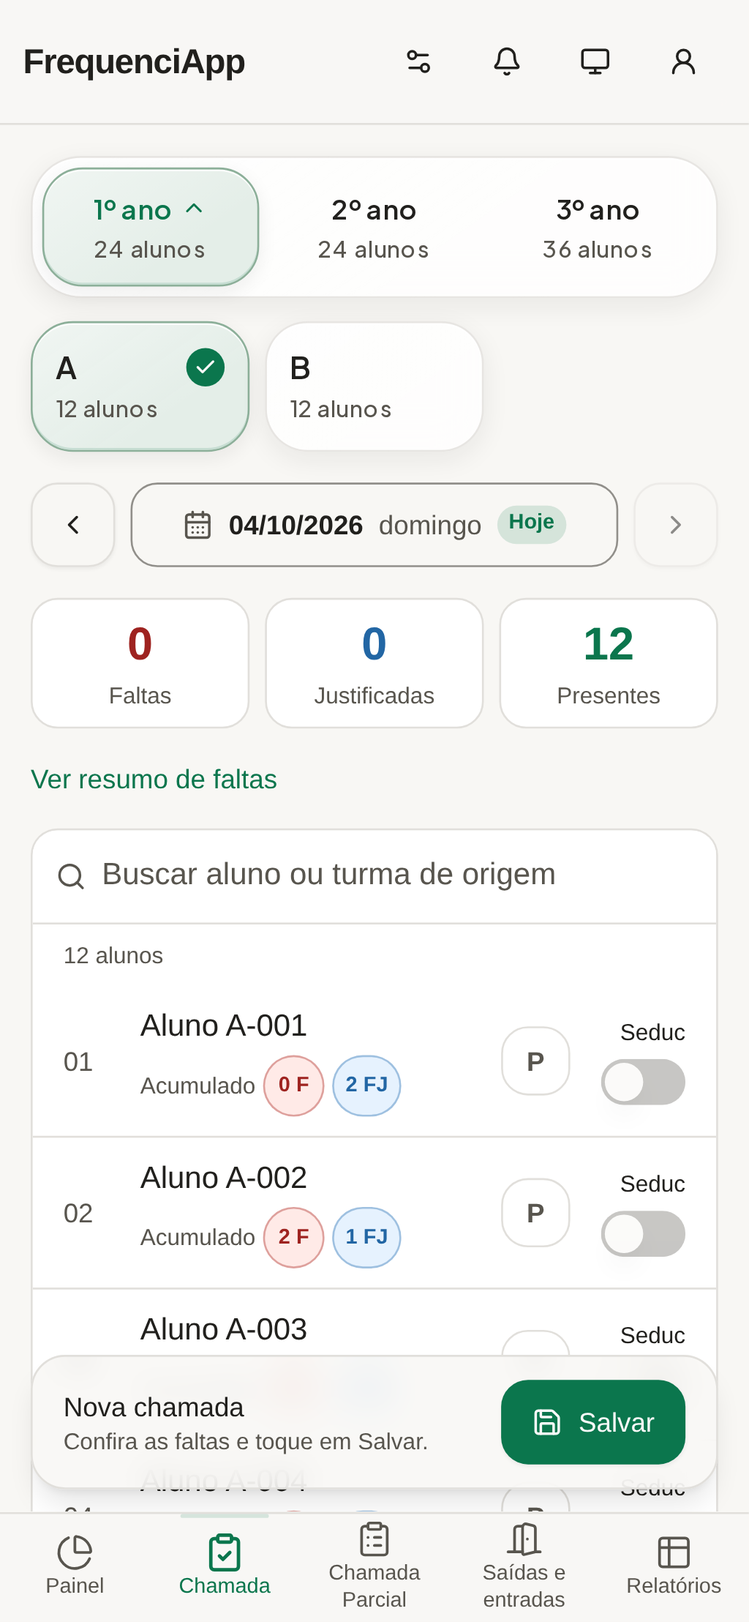
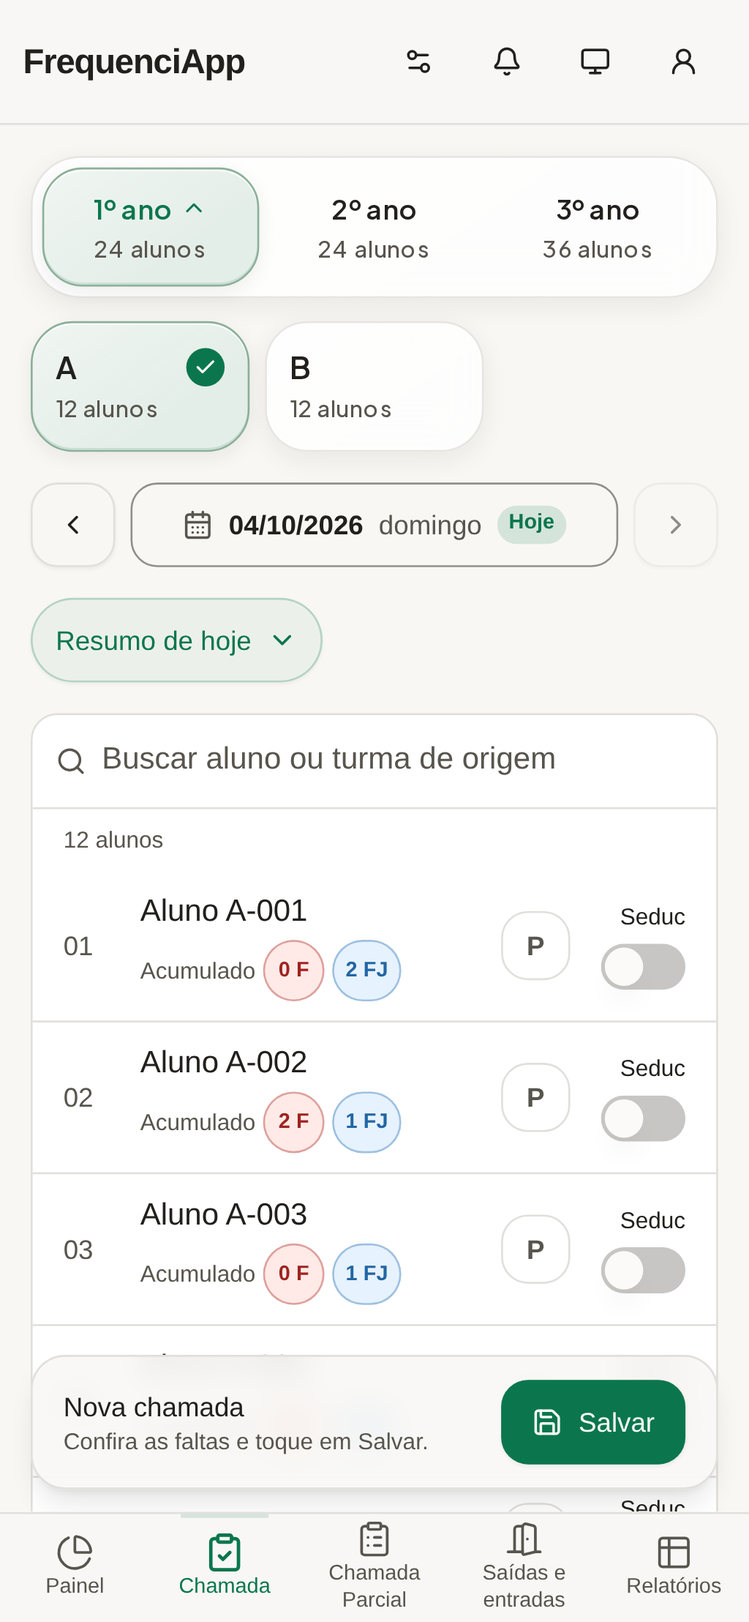
feat(frequencia): recolha os indicadores no resumo da Chamada
Move as contagens de faltas, justificadas e presentes para o painel
recolhível e abre o conteúdo pelo botão arredondado Resumo de hoje.
Identifica consultas históricas como Resumo do dia e preserva os filtros
com a ação Ver todos disponível junto da lista de alunos.

Atualiza os fluxos de navegador, a documentação e as capturas oficiais.

Assisted-by: Codex:GPT-6

diff --git a/src/components/frequencia/vista-frequencia.tsx b/src/components/frequencia/vista-frequencia.tsx
@@ -3,9 +3,10 @@
 // Chamada diária: todos presentes por padrão; toque no aluno para marcar
 // falta e de novo para voltar. A falta pode receber uma justificativa do
 // catálogo (FJ). Rascunho local e proteção de conflito.
-import { useCallback, useEffect, useMemo, useRef, useState } from "react";
+import { useCallback, useEffect, useId, useMemo, useRef, useState } from "react";
 import { motion, useReducedMotion } from "motion/react";
 import {
+  ChevronDown,
   ChevronLeft,
   ChevronRight,
   CloudCheck,
@@ -148,6 +149,7 @@ export default function VistaFrequencia({
   const [observacoes, setObservacoes] = useState<Map<string, string>>(new Map());
   const [aulasAbertas, setAulasAbertas] = useState<string | null>(null);
   const [resumoAberto, setResumoAberto] = useState(false);
+  const idResumo = useId();
   const [revisaoSalva, setRevisaoSalva] = useState(0);
   const [confirmacoesSeduc, setConfirmacoesSeduc] = useState<ConfirmacaoSeducAluno[]>([]);
   const { chaveAtiva: confirmandoSeduc, executar: executarSeduc } = useAcoesPorChave();
@@ -601,6 +603,7 @@ export default function VistaFrequencia({
 
   const rotuloDia = dia ? dia.split("-").reverse().join("/") : "";
   const diaDaSemana = dia ? rotuloDiaSemana(dia) : "";
+  const tituloResumo = dia === diaCorrente ? "Resumo de hoje" : "Resumo do dia";
   const horaSalva = atualizadoEm ? horaNoFuso(atualizadoEm, fuso) : "";
 
   const tituloEstado = carregando
@@ -764,43 +767,6 @@ export default function VistaFrequencia({
             </p>
           )}
 
-          <div className="grid grid-cols-3 gap-2" aria-label="Resumo da chamada">
-            <button
-              type="button"
-              aria-pressed={filtro === "faltas"}
-              onClick={() => setFiltro((atual) => (atual === "faltas" ? "todos" : "faltas"))}
-              className="bg-card aria-[pressed=true]:border-falta aria-[pressed=true]:bg-falta-fraca pressionavel flex min-h-16 flex-col items-center justify-center gap-0.5 rounded-lg border px-2 py-2 transition-colors"
-            >
-              <span className="numerais-tabulares text-falta-texto text-2xl font-semibold">
-                {carregando ? "" : contagemFaltas}
-              </span>
-              <span className="text-muted-foreground text-xs font-medium">Faltas</span>
-            </button>
-            <button
-              type="button"
-              aria-pressed={filtro === "justificadas"}
-              onClick={() =>
-                setFiltro((atual) => (atual === "justificadas" ? "todos" : "justificadas"))
-              }
-              className="bg-card aria-[pressed=true]:border-justificada aria-[pressed=true]:bg-justificada-fraca pressionavel flex min-h-16 flex-col items-center justify-center gap-0.5 rounded-lg border px-2 py-2 transition-colors"
-            >
-              <span className="numerais-tabulares text-justificada-texto text-2xl font-semibold">
-                {carregando ? "" : contagemJustificadas}
-              </span>
-              <span className="text-muted-foreground text-xs font-medium">Justificadas</span>
-            </button>
-            <button
-              type="button"
-              aria-pressed={filtro === "presentes"}
-              onClick={() => setFiltro((atual) => (atual === "presentes" ? "todos" : "presentes"))}
-              className="bg-card aria-[pressed=true]:border-primary aria-[pressed=true]:bg-accent pressionavel flex min-h-16 flex-col items-center justify-center gap-0.5 rounded-lg border px-2 py-2 transition-colors"
-            >
-              <span className="numerais-tabulares text-primary text-2xl font-semibold">
-                {carregando ? "" : contagemPresencas}
-              </span>
-              <span className="text-muted-foreground text-xs font-medium">Presentes</span>
-            </button>
-          </div>
           {configuracoes.frequenciaPorAula && aulasDoDia.length > 1 && (
             <div className="text-muted-foreground flex flex-wrap items-center gap-1.5 text-xs">
               <span>Aulas do dia:</span>
@@ -822,14 +788,20 @@ export default function VistaFrequencia({
             </p>
           )}
 
-          <button
+          <Button
             type="button"
+            variant="outline"
             aria-expanded={resumoAberto}
+            aria-controls={idResumo}
             onClick={() => setResumoAberto((atual) => !atual)}
-            className="text-primary pressionavel self-start text-sm font-medium hover:underline"
+            className="text-primary border-primary/25 bg-primary/5 hover:bg-primary/10 hover:text-primary dark:border-primary/25 dark:bg-primary/5 dark:hover:bg-primary/10 self-start rounded-full px-4"
           >
-            {resumoAberto ? "Ocultar resumo de faltas" : "Ver resumo de faltas"}
-          </button>
+            {tituloResumo}
+            <ChevronDown
+              aria-hidden="true"
+              className={`size-4 transition-transform motion-reduce:transition-none ${resumoAberto ? "rotate-180" : ""}`}
+            />
+          </Button>
 
           {(erro || conflito) &&
             (conflito ? (
@@ -857,75 +829,130 @@ export default function VistaFrequencia({
         </div>
 
         <div className="flex min-w-0 flex-col gap-4 xl:order-1">
-          {resumoAberto && (
-            <div className="bg-card overflow-hidden rounded-lg border">
-              <div className="bg-secondary/50 border-b px-4 py-2.5">
-                <h2 className="font-medium">Resumo de faltas</h2>
-              </div>
-              {(() => {
-                const ausentes = ativosDaTurma.filter((aluno) => ausencias.has(aluno.id));
-                if (ausentes.length === 0) {
+          <section
+            id={idResumo}
+            aria-label={tituloResumo}
+            hidden={!resumoAberto}
+            className="bg-card overflow-hidden rounded-lg border"
+          >
+            {resumoAberto && (
+              <>
+                <div className="bg-secondary/50 flex flex-wrap items-center justify-between gap-2 border-b px-4 py-2.5">
+                  <h2 className="font-medium">{tituloResumo}</h2>
+                  <span className="text-muted-foreground numerais-tabulares text-xs">
+                    {rotuloDia}
+                  </span>
+                </div>
+                <div className="border-b p-3">
+                  <div className="grid grid-cols-3 gap-2" aria-label="Resumo da chamada">
+                    <button
+                      type="button"
+                      aria-pressed={filtro === "faltas"}
+                      onClick={() =>
+                        setFiltro((atual) => (atual === "faltas" ? "todos" : "faltas"))
+                      }
+                      className="bg-card aria-[pressed=true]:border-falta aria-[pressed=true]:bg-falta-fraca pressionavel flex min-h-16 flex-col items-center justify-center gap-0.5 rounded-lg border px-2 py-2 transition-colors"
+                    >
+                      <span className="numerais-tabulares text-falta-texto text-2xl font-semibold">
+                        {carregando ? "" : contagemFaltas}
+                      </span>
+                      <span className="text-muted-foreground text-xs font-medium">Faltas</span>
+                    </button>
+                    <button
+                      type="button"
+                      aria-pressed={filtro === "justificadas"}
+                      onClick={() =>
+                        setFiltro((atual) => (atual === "justificadas" ? "todos" : "justificadas"))
+                      }
+                      className="bg-card aria-[pressed=true]:border-justificada aria-[pressed=true]:bg-justificada-fraca pressionavel flex min-h-16 flex-col items-center justify-center gap-0.5 rounded-lg border px-2 py-2 transition-colors"
+                    >
+                      <span className="numerais-tabulares text-justificada-texto text-2xl font-semibold">
+                        {carregando ? "" : contagemJustificadas}
+                      </span>
+                      <span className="text-muted-foreground text-xs font-medium">
+                        Justificadas
+                      </span>
+                    </button>
+                    <button
+                      type="button"
+                      aria-pressed={filtro === "presentes"}
+                      onClick={() =>
+                        setFiltro((atual) => (atual === "presentes" ? "todos" : "presentes"))
+                      }
+                      className="bg-card aria-[pressed=true]:border-primary aria-[pressed=true]:bg-accent pressionavel flex min-h-16 flex-col items-center justify-center gap-0.5 rounded-lg border px-2 py-2 transition-colors"
+                    >
+                      <span className="numerais-tabulares text-primary text-2xl font-semibold">
+                        {carregando ? "" : contagemPresencas}
+                      </span>
+                      <span className="text-muted-foreground text-xs font-medium">Presentes</span>
+                    </button>
+                  </div>
+                </div>
+                {(() => {
+                  const ausentes = ativosDaTurma.filter((aluno) => ausencias.has(aluno.id));
+                  if (ausentes.length === 0) {
+                    return (
+                      <p className="text-muted-foreground px-4 py-3 text-sm">
+                        Nenhuma falta nesta chamada.
+                      </p>
+                    );
+                  }
                   return (
-                    <p className="text-muted-foreground px-4 py-3 text-sm">
-                      Nenhuma falta nesta chamada.
-                    </p>
-                  );
-                }
-                return (
-                  <ul className="divide-y">
-                    {ausentes.map((aluno) => {
-                      const acumulado = acumuladoDe(aluno.id);
-                      const codigo = justificativas.get(aluno.id);
-                      return (
-                        <li
-                          key={aluno.id}
-                          className="flex items-start gap-3 px-4 py-2.5 last:overflow-hidden last:rounded-b-[calc(var(--radius)-1px)]"
-                        >
-                          <span className="min-w-0 flex-1">
-                            <span className="block truncate text-sm font-medium">
-                              {nomeNaChamada(
-                                aluno.nome,
-                                mostrarOrigem,
-                                aluno.turmaOriginalId !== turmaId,
-                              )}
-                              {codigo && (
-                                <span className="text-primary ml-2 text-xs font-semibold">
-                                  {codigo}
+                    <ul className="divide-y">
+                      {ausentes.map((aluno) => {
+                        const acumulado = acumuladoDe(aluno.id);
+                        const codigo = justificativas.get(aluno.id);
+                        return (
+                          <li
+                            key={aluno.id}
+                            className="flex items-start gap-3 px-4 py-2.5 last:overflow-hidden last:rounded-b-[calc(var(--radius)-1px)]"
+                          >
+                            <span className="min-w-0 flex-1">
+                              <span className="block truncate text-sm font-medium">
+                                {nomeNaChamada(
+                                  aluno.nome,
+                                  mostrarOrigem,
+                                  aluno.turmaOriginalId !== turmaId,
+                                )}
+                                {codigo && (
+                                  <span className="text-primary ml-2 text-xs font-semibold">
+                                    {codigo}
+                                  </span>
+                                )}
+                              </span>
+                              {(mostrarOrigem || codigo) && (
+                                <span className="text-muted-foreground block truncate text-xs">
+                                  {mostrarOrigem
+                                    ? `Origem ${rotuloOrigemDe(aluno.turmaOriginalId)}`
+                                    : ""}
+                                  {codigo
+                                    ? `${mostrarOrigem ? " · " : ""}${rotuloJustificativa(codigo, catalogoJustificativas)}`
+                                    : ""}
                                 </span>
                               )}
                             </span>
-                            {(mostrarOrigem || codigo) && (
-                              <span className="text-muted-foreground block truncate text-xs">
-                                {mostrarOrigem
-                                  ? `Origem ${rotuloOrigemDe(aluno.turmaOriginalId)}`
-                                  : ""}
-                                {codigo
-                                  ? `${mostrarOrigem ? " · " : ""}${rotuloJustificativa(codigo, catalogoJustificativas)}`
-                                  : ""}
-                              </span>
-                            )}
-                          </span>
-                          <span className="flex shrink-0 flex-col items-end gap-1">
-                            {acumulado ? (
-                              <>
-                                <CirculosAcumulado
-                                  faltas={acumulado.faltas}
-                                  justificadas={acumulado.faltasJustificadas}
-                                />
-                                <span className="text-muted-foreground text-xs">acumulado</span>
-                              </>
-                            ) : (
-                              <span className="text-muted-foreground text-xs">sem acumulado</span>
-                            )}
-                          </span>
-                        </li>
-                      );
-                    })}
-                  </ul>
-                );
-              })()}
-            </div>
-          )}
+                            <span className="flex shrink-0 flex-col items-end gap-1">
+                              {acumulado ? (
+                                <>
+                                  <CirculosAcumulado
+                                    faltas={acumulado.faltas}
+                                    justificadas={acumulado.faltasJustificadas}
+                                  />
+                                  <span className="text-muted-foreground text-xs">acumulado</span>
+                                </>
+                              ) : (
+                                <span className="text-muted-foreground text-xs">sem acumulado</span>
+                              )}
+                            </span>
+                          </li>
+                        );
+                      })}
+                    </ul>
+                  );
+                })()}
+              </>
+            )}
+          </section>
 
           <div className="bg-card overflow-hidden rounded-lg border">
             <BarraBusca

diff --git a/tests/e2e/frequencia.spec.ts b/tests/e2e/frequencia.spec.ts
@@ -54,6 +54,7 @@ test.describe("chamada com saída por aula", () => {
     await page.keyboard.press("ArrowLeft");
     await page.keyboard.press("Enter");
     await expect(painelDia).toBeHidden();
+    await expect(painel.getByRole("button", { name: "Resumo do dia" })).toBeVisible();
     await expect(painel.getByRole("button", { name: "Voltar para hoje" })).toBeVisible();
     await painel.getByRole("button", { name: "Voltar para hoje" }).click();
     await expect(painel.getByText("Hoje", { exact: true })).toBeVisible();
@@ -93,6 +94,32 @@ test.describe("chamada com saída por aula", () => {
     await expect(painel.getByText("saiu em parte das aulas").first()).toBeVisible({
       timeout: 15_000,
     });
+
+    // Recolher o resumo preserva o filtro, com uma saída acessível junto da lista.
+    const botaoResumo = painel.getByRole("button", { name: "Resumo de hoje" });
+    const resumo = painel.getByRole("region", { name: "Resumo de hoje" });
+    const alunoPresente = painel.getByRole("button", { name: /^E2E Aluno Dois:/ });
+    await expect(botaoResumo).toHaveAttribute("aria-expanded", "false");
+    await expect(resumo).toBeHidden();
+    if (isMobile) await botaoResumo.click();
+    else {
+      await botaoResumo.focus();
+      await page.keyboard.press("Enter");
+    }
+    await expect(botaoResumo).toHaveAttribute("aria-expanded", "true");
+    const faltas = resumo.getByRole("button", { name: /Faltas/ });
+    await expect(resumo.getByRole("button", { name: /Justificadas/ })).toBeVisible();
+    await expect(resumo.getByRole("button", { name: /Presentes/ })).toBeVisible();
+    await faltas.click();
+    await expect(alunoPresente).toBeHidden();
+    await botaoResumo.click();
+    await expect(resumo).toBeHidden();
+    await expect(alunoPresente).toBeHidden();
+    await botaoResumo.click();
+    await expect(faltas).toHaveAttribute("aria-pressed", "true");
+    await botaoResumo.click();
+    await painel.getByRole("button", { name: "Ver todos", exact: true }).click();
+    await expect(alunoPresente).toBeVisible();
 
     await trocarVisao(page, "Relatórios", "relatorios");
     await page.getByRole("tab", { name: "Histórico" }).click();

diff --git a/tests/e2e/origem.spec.ts b/tests/e2e/origem.spec.ts
@@ -146,7 +146,7 @@ test.describe("consulta por origem (coordenação)", () => {
     await expect(linha.getByText("E2E Movimento Um", { exact: true })).toBeVisible();
     await expect(linha.getByRole("img", { name: /Turma original/ })).toHaveCount(0);
     await linha.click();
-    await secao.getByRole("button", { name: "Ver resumo de faltas" }).click();
+    await secao.getByRole("button", { name: "Resumo de hoje" }).click();
     await expect(secao.getByText("Origem 2º ano E2E Movimento A")).toHaveCount(0);
   });
 });

diff --git a/docs/interface.md b/docs/interface.md
@@ -11,7 +11,7 @@ Baixar planilha, Exportar relação e Baixar cópia abrem o mesmo diálogo de pr
 - **Página única** com troca de visões por botões e navegação inferior no celular: Painel, Chamada, Chamada Parcial, Saídas e entradas e Relatórios para a equipe, mais Alunos (consulta) para a coordenação. No celular, Gestão fica no cabeçalho, antes do sino, apenas para a administração; seu botão indica quando a área está ativa e a barra inferior fica sem seleção nesse momento. No desktop, barra lateral fixa com a mesma navegação e Gestão para a administração, o cartão da pessoa, o tema e as ações empilhadas (trocar senha e sair), e o conteúdo ocupa toda a largura, com troca de visão instantânea. O cabeçalho traz identidade, tema de três opções (sistema, claro e escuro) e menu de perfil. A área de saídas e entradas some quando o recurso é desligado na Gestão. As visões não repetem título nem texto de apoio na tela: o título existe só para leitores de tela (classe `sr-only`) e as explicações ficam nos diálogos de confirmação, onde a ação acontece.
 - **Painel**: sem botão de atualizar: os indicadores se atualizam sozinhos a cada minuto e ao voltar para a aba do navegador (sem tentar sem rede). Seletor de data com setas, cartões de alunos, presentes, faltas (F + FJ), justificadas, infrequência e saídas, e faixa de gráficos com rolagem horizontal nativa, encaixe por cartão e indicador de posição. Os botões de seleção foram retirados. A ordem é Escola, séries cadastradas, Personalizado e Desistentes. Escola mostra as faltas por série; cada série mostra as próprias turmas atuais e, quando indicada em Gestão > Configurações > Origem na Chamada, um segundo gráfico das mesmas faltas por turma original. Desistentes mostra as desistências por série. As roscas mantêm legenda de contagem e percentual, cada número no seu círculo, e detalhe por setor no formato "1º ano A: 3 faltas" em fundo opaco. A cobertura do dia fica no cartão da escola ou da série, com as turmas pendentes do recorte. A faixa recebe foco e aceita setas esquerda e direita, Home e End, respeitando a preferência de movimento reduzido. Cartões fora de exibição ficam inertes e ocultos do leitor de tela; controles do cartão ativo mantêm os próprios atalhos. A altura acompanha o cartão ativo, inclusive ao gerar o período personalizado, e a rolagem fica contida na faixa, sem alargar a página. Mudar a largura ou sair do Painel e retornar mantém o cartão em exibição.
 - **Painel personalizado**: cartão Personalizado depois das séries e antes de Desistentes, acessível pela rolagem lateral, sem fixar nome de série no código. Exibe calendários brasileiros para Data inicial e Data final, filtro de série e, depois de selecionar uma série, filtro de turma. Gerar gráfico consulta o intervalo inclusivo pela API existente, mesmo entre meses, limitado a 366 dias e até hoje. A rosca mostra a distribuição de F + FJ por série atual ou pelas turmas atuais da série selecionada; o resumo e a legenda mostram a taxa sobre os registros de aluno por dia com chamada salva, sem média das taxas diárias. Listas históricas da chamada e desistências vigentes em cada dia são respeitadas; alunos inativos ficam fora, como no Painel diário. Dias sem chamada não contam como presença. Alterar datas ou filtros invalida o resultado até nova geração. Carregamento, falha recuperável, ausência de chamadas e chamadas sem faltas têm estados próprios. A data e o resumo diário continuam acima da faixa; o cartão identifica o período e o resumo do intervalo separadamente. Deslizar para outro cartão preserva as datas, os filtros e o resultado.
-- **Chamada**: seletor de turma em controle segmentado de séries, com a quantidade de alunos de cada uma; a série ativa é sempre a da turma escolhida. O seletor tem acabamento de vidro, com reflexos discretos, desfoque moderado e sombras suaves nos dois temas, mantendo o verde institucional e o texto opaco. Logo abaixo aparecem só as turmas dela, em cartões com nome e quantidade de alunos em linhas separadas. A série e a turma ativas têm fundo verde suave e borda; a turma também traz um ícone de confirmação em círculo. Há alternativas sólidas sem suporte a desfoque ou com transparência reduzida e seleção por contorno em alto contraste; contagens também são descritas aos leitores de tela. Os controles têm foco visível, altura mínima de 56 pixels nas séries e 68 nas turmas, com nomes completos no rótulo acessível. Tocar em outra série ativa a série e seleciona a primeira turma dela; tocar na série ativa recolhe ou reabre as turmas. Com alterações por salvar, as outras séries e turmas ficam desabilitadas. Barra de data com setas de dia, rótulo amigável (data, dia da semana e selo Hoje) e seletor próprio que abre em popover ancorado, no desktop e no celular, com calendário do mês, teclado e atalho Hoje, sem permitir dia futuro; atalho para voltar a hoje, cartões clicáveis de faltas, justificadas e presentes que filtram a lista, taxa de infrequência, busca por nome e a lista de alunos com divisórias finas. A lista segue a relação atual da turma, na ordem cadastrada; ao reabrir um dia salvo, mostra quem estava naquela chamada, mesmo que tenha mudado de turma depois. Na turma reorganizada, com algum aluno de outra turma original, cada nome ganha a turma original em um círculo ao lado (por exemplo "3º B"), também lida pelo leitor de tela. Cada aluno marcado ganha o seletor de justificativa do catálogo; escolher um código transforma a falta em FJ e o código Outros aceita observação. O acumulado do aluno aparece na linha e no resumo de faltas, com faltas e faltas justificadas cada uma em um círculo. No modo por aula, as aulas do dia aparecem como referência e cada aluno marcado ganha o botão Aulas, com chips para registrar a saída no meio da aula. Cada aluno traz a chave Seduc, com nome acessível "Registrado na Seduc". A confirmação manual só fica habilitada na chamada salva e bloqueada, guarda data e responsável e pode ser desmarcada sem desbloquear. Salvar sem mudanças preserva as confirmações; corrigir presença, aulas ou justificativa desmarca apenas os alunos afetados. Marcar a Seduc não altera a revisão nem o horário da chamada e não aciona envio ao Google. No desktop, a lista fica à esquerda e o painel de turma, data, resumo e salvamento à direita, fixo durante a rolagem.
+- **Chamada**: seletor de turma em controle segmentado de séries, com a quantidade de alunos de cada uma; a série ativa é sempre a da turma escolhida. O seletor tem acabamento de vidro, com reflexos discretos, desfoque moderado e sombras suaves nos dois temas, mantendo o verde institucional e o texto opaco. Logo abaixo aparecem só as turmas dela, em cartões com nome e quantidade de alunos em linhas separadas. A série e a turma ativas têm fundo verde suave e borda; a turma também traz um ícone de confirmação em círculo. Há alternativas sólidas sem suporte a desfoque ou com transparência reduzida e seleção por contorno em alto contraste; contagens também são descritas aos leitores de tela. Os controles têm foco visível, altura mínima de 56 pixels nas séries e 68 nas turmas, com nomes completos no rótulo acessível. Tocar em outra série ativa a série e seleciona a primeira turma dela; tocar na série ativa recolhe ou reabre as turmas. Com alterações por salvar, as outras séries e turmas ficam desabilitadas. Barra de data com setas de dia, rótulo amigável (data, dia da semana e selo Hoje) e seletor próprio que abre em popover ancorado, no desktop e no celular, com calendário do mês, teclado e atalho Hoje, sem permitir dia futuro; atalho para voltar a hoje e botão arredondado Resumo de hoje, recolhido por padrão. Ao abrir, exibe os cartões de faltas, justificadas e presentes, que continuam filtrando a lista, junto da relação de faltas. Em datas anteriores, o botão passa a Resumo do dia e o painel identifica a data consultada. Recolher o resumo preserva o filtro, com indicação e ação Ver todos junto da lista. A busca por nome e a lista de alunos com divisórias finas ficam disponíveis fora do resumo. A lista segue a relação atual da turma, na ordem cadastrada; ao reabrir um dia salvo, mostra quem estava naquela chamada, mesmo que tenha mudado de turma depois. Na turma reorganizada, com algum aluno de outra turma original, cada nome ganha a turma original em um círculo ao lado (por exemplo "3º B"), também lida pelo leitor de tela. Cada aluno marcado ganha o seletor de justificativa do catálogo; escolher um código transforma a falta em FJ e o código Outros aceita observação. O acumulado do aluno aparece na linha e no resumo de faltas, com faltas e faltas justificadas cada uma em um círculo. No modo por aula, as aulas do dia aparecem como referência e cada aluno marcado ganha o botão Aulas, com chips para registrar a saída no meio da aula. Cada aluno traz a chave Seduc, com nome acessível "Registrado na Seduc". A confirmação manual só fica habilitada na chamada salva e bloqueada, guarda data e responsável e pode ser desmarcada sem desbloquear. Salvar sem mudanças preserva as confirmações; corrigir presença, aulas ou justificativa desmarca apenas os alunos afetados. Marcar a Seduc não altera a revisão nem o horário da chamada e não aciona envio ao Google. No desktop, a lista fica à esquerda e o painel de turma, data, resumo e salvamento à direita, fixo durante a rolagem.
 - **Chamada Parcial**: ao lado de Chamada, escolhe turma e dia e mostra os alunos ativos na ordem da chamada normal, com número, nome e ação por linha. Registrar abre o formulário com o aluno escolhido; somente o salvamento cria uma frequência parcial. Desistentes aparecem com o novo registro bloqueado. Busca e filtros incluem alunos sem frequência parcial; pendências na Seduc incluem somente registros salvos. Registros históricos continuam visíveis depois de transferência ou desativação. O formulário oferece Manhã, Tarde ou seleção exata de aulas, além de observação curta. Cada linha traz a chave "Registrado na Seduc", habilitada depois de salvar e marcada manualmente depois do lançamento externo. A chave guarda data e responsável; corrigir turno, aulas ou observação desfaz a confirmação. A chamada normal, os gráficos e a Grade continuam usando seus próprios registros. Rascunhos e pendências ficam separados, com aviso antes de sair sem salvar. O envio manual para a terceira planilha exige prévia; atualizar linhas já enviadas depende de opção explícita.
 - **Saídas e entradas**: dois seletores separam os registros. Entradas segue a estrutura da saída: data no calendário brasileiro `DD/MM/AAAA`, navegação diária, turma, aluno, Momento da entrada (aula ou pausa), horário, justificativa por tipo ou texto e Responsável pelo registro. O catálogo de responsáveis é o mesmo de Quem libera na Gestão. A lista mostra os dados do recorte e permite remoção confirmada. A turma e o nome do responsável ficam preservados depois de transferência ou renomeação; a autoria autenticada é independente. A chegada não muda a chamada. A administração confirma a criação da aba Entradas na planilha de saídas pela Sheets API; o envio manual exige prévia.
 - **Saídas e entradas**: a área abre em abas no topo (Saídas e Entradas). A aba ativa fica na URL (`?visao=saidas&aba=entradas`) e é restaurada ao recarregar ou abrir o link. Todos os horários usam o seletor próprio em popover (duas colunas de hora e minuto com itens de 44 px; a hora vale ao tocar e o minuto fecha o painel; teclado e foco como no calendário) e todas as datas usam o calendário em popover.

diff --git a/CHANGELOG.md b/CHANGELOG.md
@@ -98,6 +98,8 @@ Enquanto a primeira versão pública não é lançada, a versão do projeto perm
 
 ### Modificado
 
+- Indicadores de faltas, justificadas e presentes ficam dentro do resumo recolhível da Chamada, aberto pelo botão arredondado Resumo de hoje, com filtros preservados e identificação da data consultada.
+
 - Seletores de ano e turma da Chamada com acabamento de vidro, reflexos discretos e confirmação circular, mantendo a paleta institucional, texto opaco e alternativas de acessibilidade.
 
 - Guia de contribuição e AGENTS.md passam a exigir etiquetas em issues e pull requests, commits atômicos organizados em um único pull request e abertura somente com o trabalho finalizado.
